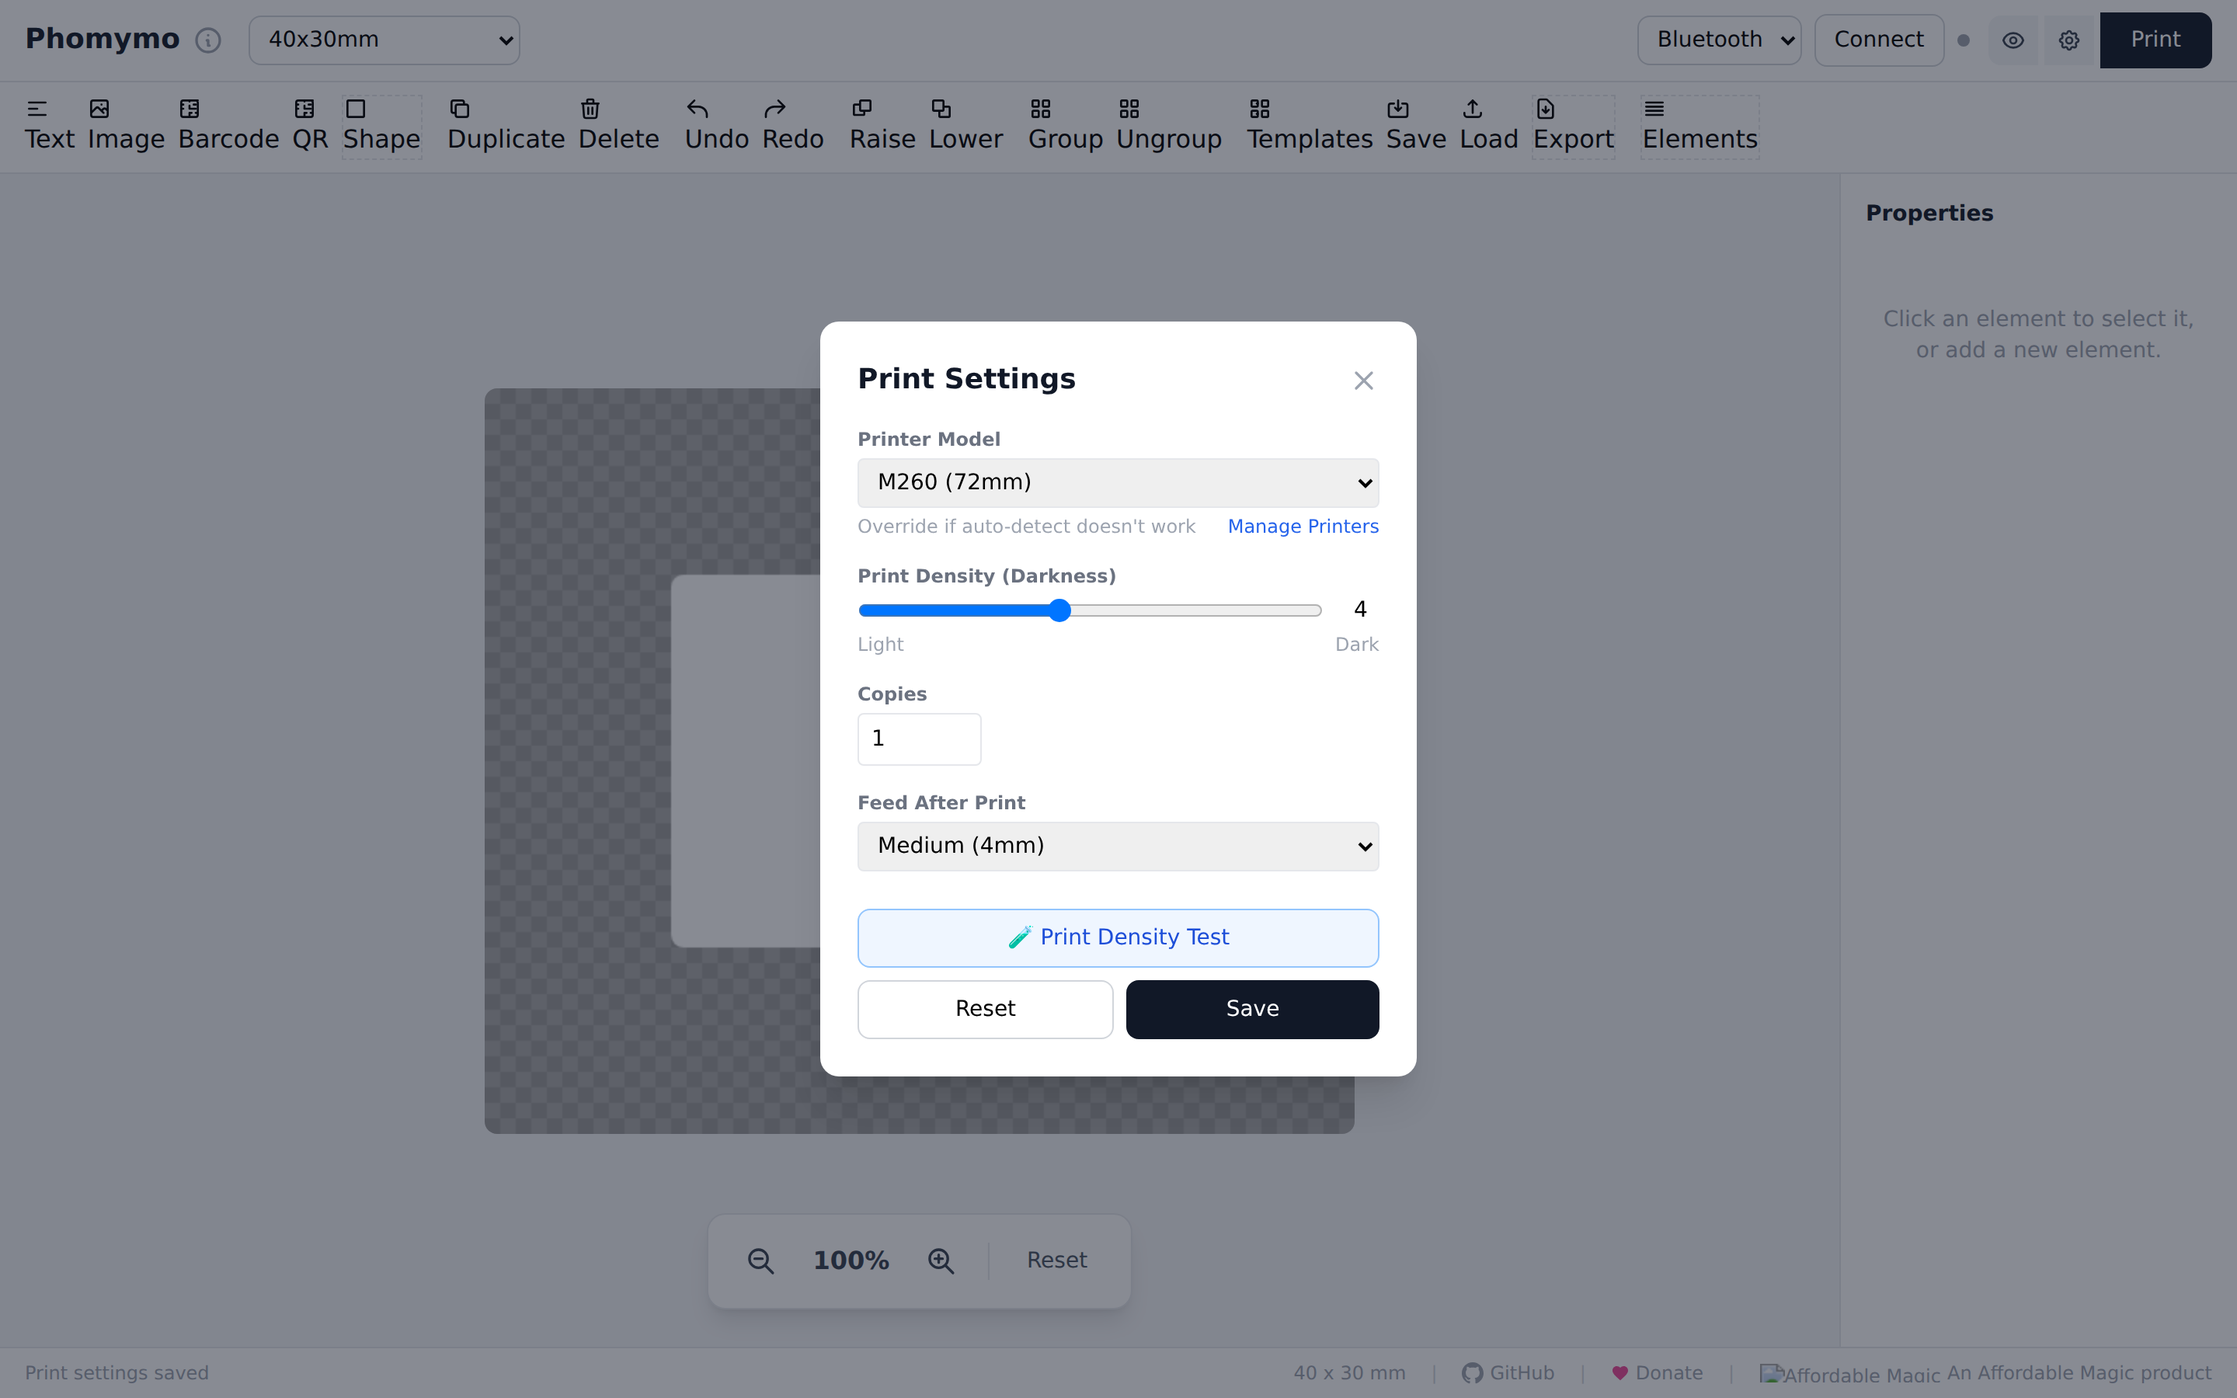
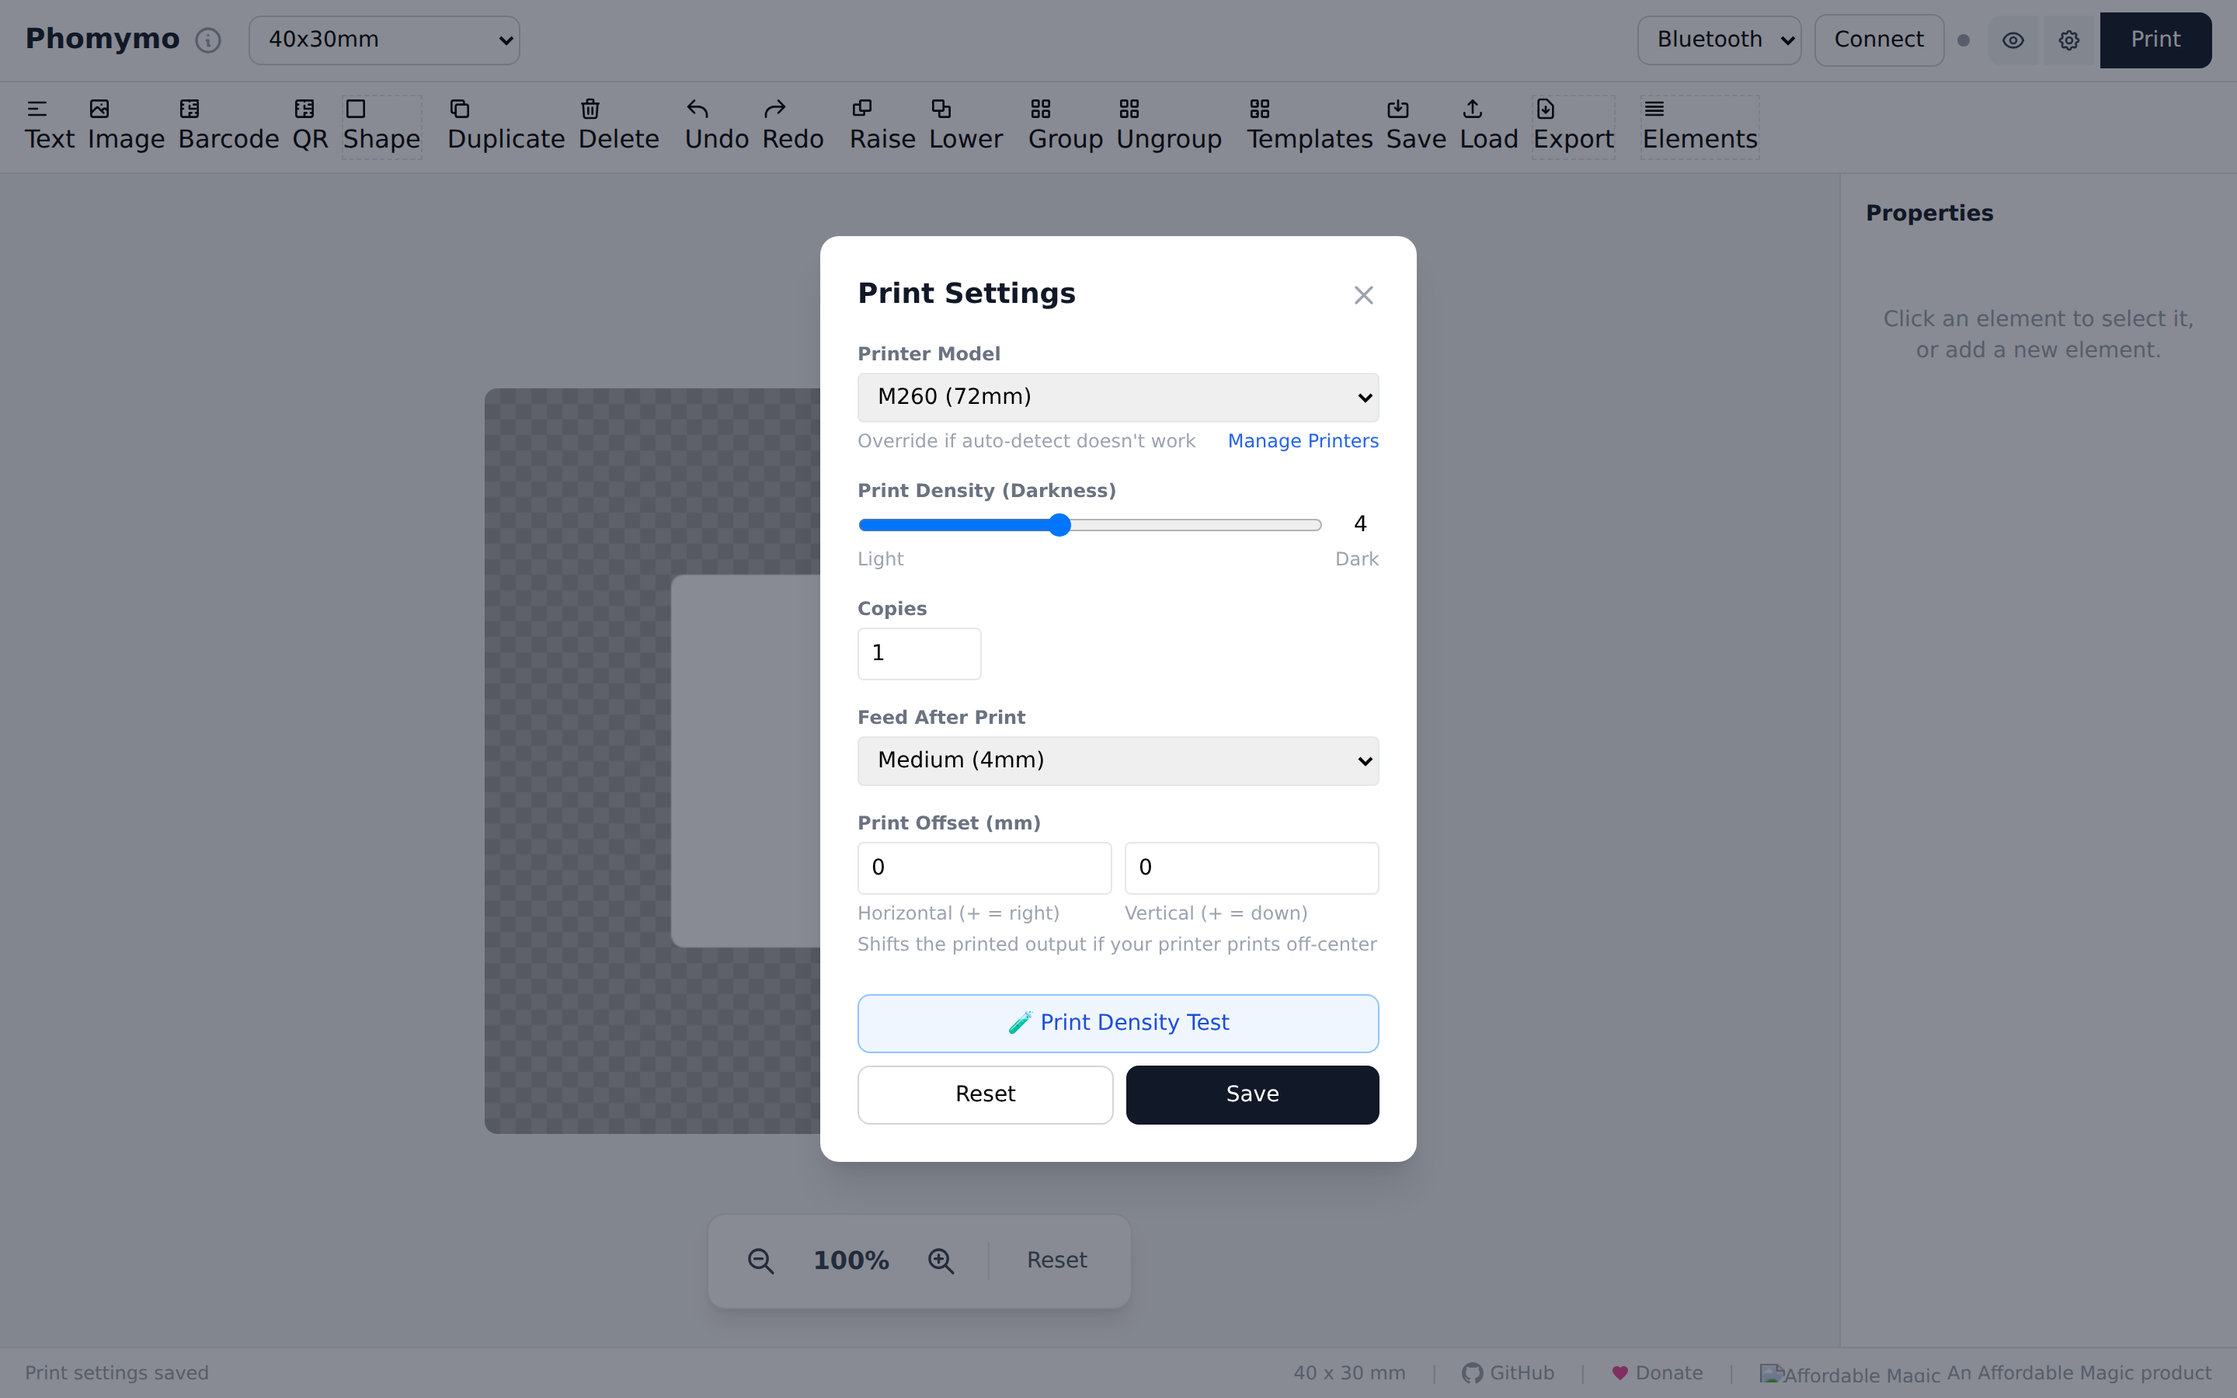
Add Print Offset calibration (horizontal/vertical, mm)
Adds the horizontal/vertical shift option the official Phomemo app has:
Print Settings gains a Print Offset (mm) pair (-10..+10, 0.5 steps,
+ = right / down). The offset is applied at print time only — content is
translated inside the label bitmap before rasterization in
getRasterData/getRasterDataRaw — so the canvas design is unchanged and
round-label clipping still applies. Stored in mm with the other print
settings and converted to 203-DPI pixels at print (scales correctly for
300-DPI printers, which upscale after the offset render).

This directly gives users a fix for per-unit alignment drift like the
reported M110 ~2-3mm left shift (README known-issue note updated with
the workaround; manual documents the new setting). Suite: 39/39.

Claude-Session: https://claude.ai/code/session_0156vw8917HrWjSWgj6FZdPK

Changed region(s): [[0.3438, 0.1556, 0.6562, 0.84], [0.5625, 0.3733, 0.625, 0.4044]]

diff --git a/src/web/app.js b/src/web/app.js
@@ -4,7 +4,7 @@
  * v116
  */
 
-import { CanvasRenderer } from './canvas.js?v=116';
+import { CanvasRenderer } from './canvas.js?v=117';
 import { BLETransport } from './ble.js?v=104';
 import { USBTransport } from './usb.js?v=101';
 import { print, printDensityTest, isDSeriesPrinter, isP12Printer, isA30Printer, isTapePrinter, isPM241Printer, isTSPLPrinter, isRotatedPrinter, getPrinterWidthBytes, getPrinterDpi, getPrinterAlignment, getPrinterDescription, isDeviceRecognized, getMatchedPattern, loadPrinterDefinitions, getAllPrinterDefinitions, getPrinterDefinition, getCustomPrinterDefinitions, saveCustomPrinterDefinition, deleteCustomPrinterDefinition, isBuiltinPrinter, resetBuiltinPrinter, getAvailableProtocols, getAvailableLabelPresets, getDetectedDefinition } from './printer.js?v=128';
@@ -179,6 +179,8 @@ const state = {
     copies: 1,        // Number of copies
     feed: 32,         // Feed after print in dots (8 dots = 1mm)
     printerModel: 'auto',  // 'auto', 'narrow-48', 'mini-54', 'wide-72', 'mid-76', 'wide-81', 'd-series'
+    offsetX: 0,       // Print offset calibration in mm (+ = right)
+    offsetY: 0,       // Print offset calibration in mm (+ = down)
   },
   // Template state
   templateFields: [],     // Detected field names from elements
@@ -1959,8 +1961,8 @@ async function handleBatchPrint() {
         ditherMode = 'threshold';
       }
       const rasterData = isRotatedPrinter(deviceName, printerModel)
-        ? state.renderer.getRasterDataRaw(mergedElements, ditherMode)
-        : state.renderer.getRasterData(mergedElements, printerWidth, 203, ditherMode, printerAlignment);
+        ? state.renderer.getRasterDataRaw(mergedElements, ditherMode, getPrintOffsetX(), getPrintOffsetY())
+        : state.renderer.getRasterData(mergedElements, printerWidth, 203, ditherMode, printerAlignment, getPrintOffsetX(), getPrintOffsetY());
 
       // Print
       await print(state.transport, rasterData, {
@@ -2046,8 +2048,8 @@ async function handlePrintSinglePreview() {
       ditherMode = 'threshold';
     }
     const rasterData = isRotatedPrinter(deviceName, printerModel)
-      ? state.renderer.getRasterDataRaw(mergedElements, ditherMode)
-      : state.renderer.getRasterData(mergedElements, printerWidth, 203, ditherMode, printerAlignment);
+      ? state.renderer.getRasterDataRaw(mergedElements, ditherMode, getPrintOffsetX(), getPrintOffsetY())
+      : state.renderer.getRasterData(mergedElements, printerWidth, 203, ditherMode, printerAlignment, getPrintOffsetX(), getPrintOffsetY());
 
     // Print
     await print(state.transport, rasterData, {
@@ -4747,6 +4749,17 @@ async function handleConnect(event) {
 /**
  * Handle print button click
  */
+/**
+ * Print offset calibration in pixels at 203 DPI (settings are stored in mm)
+ */
+function getPrintOffsetX() {
+  return (state.printSettings.offsetX || 0) * 8;
+}
+
+function getPrintOffsetY() {
+  return (state.printSettings.offsetY || 0) * 8;
+}
+
 async function handlePrint() {
   const btn = $('#print-btn');
   const originalText = btn.textContent;
@@ -4787,8 +4800,8 @@ async function handlePrint() {
       console.log('TSPL printer: forcing threshold mode for crisp barcodes');
     }
     const rasterData = isRotatedPrinter(deviceName, printerModel)
-      ? state.renderer.getRasterDataRaw(elementsToRender, ditherMode)
-      : state.renderer.getRasterData(elementsToRender, printerWidth, printerDpi, ditherMode, printerAlignment);
+      ? state.renderer.getRasterDataRaw(elementsToRender, ditherMode, getPrintOffsetX(), getPrintOffsetY())
+      : state.renderer.getRasterData(elementsToRender, printerWidth, printerDpi, ditherMode, printerAlignment, getPrintOffsetX(), getPrintOffsetY());
 
     // Print multiple copies if requested
     for (let copy = 1; copy <= copies; copy++) {
@@ -7504,6 +7517,8 @@ function init() {
   const densityValue = $('#print-density-value');
   const copiesInput = $('#print-copies');
   const feedSelect = $('#print-feed');
+  const offsetXInput = $('#print-offset-x');
+  const offsetYInput = $('#print-offset-y');
   const printerModelSelect = $('#printer-model');
 
   // Load saved print settings from localStorage
@@ -7522,6 +7537,8 @@ function init() {
       densityValue.textContent = state.printSettings.density;
       copiesInput.value = state.printSettings.copies;
       feedSelect.value = state.printSettings.feed;
+      offsetXInput.value = state.printSettings.offsetX || 0;
+      offsetYInput.value = state.printSettings.offsetY || 0;
       printerModelSelect.value = state.printSettings.printerModel || 'auto';
     }
   }
@@ -7557,6 +7574,8 @@ function init() {
     densityValue.textContent = state.printSettings.density;
     copiesInput.value = state.printSettings.copies;
     feedSelect.value = state.printSettings.feed;
+    offsetXInput.value = state.printSettings.offsetX || 0;
+    offsetYInput.value = state.printSettings.offsetY || 0;
     printerModelSelect.value = state.printSettings.printerModel || 'auto';
     printSettingsDialog.classList.remove('hidden');
   });
@@ -7570,11 +7589,13 @@ function init() {
   });
 
   $('#print-settings-reset').addEventListener('click', () => {
-    state.printSettings = { density: 6, copies: 1, feed: 32, printerModel: 'auto' };
+    state.printSettings = { density: 6, copies: 1, feed: 32, printerModel: 'auto', offsetX: 0, offsetY: 0 };
     densitySlider.value = 6;
     densityValue.textContent = '6';
     copiesInput.value = 1;
     feedSelect.value = 32;
+    offsetXInput.value = 0;
+    offsetYInput.value = 0;
     printerModelSelect.value = 'auto';
   });
 
@@ -7582,6 +7603,8 @@ function init() {
     state.printSettings.density = parseInt(densitySlider.value);
     state.printSettings.copies = Math.max(PRINT.MIN_COPIES, Math.min(PRINT.MAX_COPIES, parseInt(copiesInput.value) || PRINT.DEFAULT_COPIES));
     state.printSettings.feed = parseInt(feedSelect.value);
+    state.printSettings.offsetX = Math.max(-10, Math.min(10, parseFloat(offsetXInput.value) || 0));
+    state.printSettings.offsetY = Math.max(-10, Math.min(10, parseFloat(offsetYInput.value) || 0));
     state.printSettings.printerModel = printerModelSelect.value;
 
     // Save to localStorage

diff --git a/src/web/canvas.js b/src/web/canvas.js
@@ -1848,7 +1848,7 @@ export class CanvasRenderer {
    * Render elements to a temporary canvas and return pixel data
    * Shared helper for getRasterData and getRasterDataRaw
    */
-  _renderToPixels(elements) {
+  _renderToPixels(elements, offsetX = 0, offsetY = 0) {
     const width = this.labelWidth;
     const height = this.labelHeight;
     const tempCanvas = document.createElement('canvas');
@@ -1869,6 +1869,12 @@ export class CanvasRenderer {
       const radius = Math.min(width, height) / 2;
       tempCtx.arc(centerX, centerY, radius, 0, Math.PI * 2);
       tempCtx.clip();
+    }
+
+    // Print offset calibration: shift content within the label to compensate
+    // for printers that feed the media slightly off-center (px at 203 DPI)
+    if (offsetX || offsetY) {
+      tempCtx.translate(offsetX, offsetY);
     }
 
     // Render elements to temp canvas (with zone offsets if multi-label mode)
@@ -2277,8 +2283,8 @@ export class CanvasRenderer {
    * @param {string} ditherMode - Dither mode: 'auto', 'none', 'threshold', 'floyd-steinberg', 'atkinson', 'ordered'
    * @param {'left' | 'center' | 'right'} alignment - How to align label within printer width (default: 'center')
    */
-  getRasterData(elements, printerWidthBytes = DEFAULT_PRINTER_WIDTH_BYTES, printerDpi = 203, ditherMode = 'auto', alignment = 'center') {
-    let { pixels, width, height } = this._renderToPixels(elements);
+  getRasterData(elements, printerWidthBytes = DEFAULT_PRINTER_WIDTH_BYTES, printerDpi = 203, ditherMode = 'auto', alignment = 'center', offsetX = 0, offsetY = 0) {
+    let { pixels, width, height } = this._renderToPixels(elements, offsetX, offsetY);
 
     // Scale up for higher DPI printers (e.g., M02 Pro at 300 DPI)
     if (printerDpi > 203) {
@@ -2341,8 +2347,8 @@ export class CanvasRenderer {
    * @param {Array} elements - Elements to render
    * @param {string} ditherMode - Dither mode: 'auto', 'none', 'threshold', 'floyd-steinberg', 'atkinson', 'ordered'
    */
-  getRasterDataRaw(elements, ditherMode = 'auto') {
-    const { pixels, width, height } = this._renderToPixels(elements);
+  getRasterDataRaw(elements, ditherMode = 'auto', offsetX = 0, offsetY = 0) {
+    const { pixels, width, height } = this._renderToPixels(elements, offsetX, offsetY);
     const widthBytes = Math.ceil(width / 8);
     const data = this._pixelsToRaster(pixels, width, height, widthBytes, false, ditherMode);
 

diff --git a/src/web/index.html b/src/web/index.html
@@ -1538,6 +1538,22 @@
             <option value="80">Extra Large (10mm)</option>
           </select>
         </div>
+
+        <!-- Print Offset Calibration -->
+        <div>
+          <div class="prop-label">Print Offset (mm)</div>
+          <div class="flex gap-2">
+            <div class="flex-1">
+              <input type="number" id="print-offset-x" class="prop-input" step="0.5" min="-10" max="10" value="0">
+              <div class="text-xs text-gray-400 mt-1">Horizontal (+ = right)</div>
+            </div>
+            <div class="flex-1">
+              <input type="number" id="print-offset-y" class="prop-input" step="0.5" min="-10" max="10" value="0">
+              <div class="text-xs text-gray-400 mt-1">Vertical (+ = down)</div>
+            </div>
+          </div>
+          <div class="text-xs text-gray-400 mt-1">Shifts the printed output if your printer prints off-center</div>
+        </div>
       </div>
 
       <div class="mt-6 space-y-2">
@@ -2386,7 +2402,7 @@
     pdfjsModule.GlobalWorkerOptions.workerSrc = 'https://cdnjs.cloudflare.com/ajax/libs/pdf.js/4.0.379/pdf.worker.min.mjs';
     window.pdfjsLib = pdfjsModule;
   </script>
-  <script type="module" src="app.js?v=155"></script>
+  <script type="module" src="app.js?v=156"></script>
   <script>
     // Show body once styles are ready
     requestAnimationFrame(() => {

diff --git a/tests/05-print-settings.spec.ts b/tests/05-print-settings.spec.ts
@@ -79,4 +79,29 @@ test.describe.serial('Print Settings', () => {
 
     await screenshot(page, CH, 6, 'settings-persisted');
   });
+
+  test('print offset calibration persists', async ({ page }) => {
+    await page.click('#print-settings-btn');
+    await expect(page.locator('#print-settings-dialog')).toBeVisible();
+
+    // Offset inputs exist with defaults
+    await expect(page.locator('#print-offset-x')).toHaveValue('0');
+    await expect(page.locator('#print-offset-y')).toHaveValue('0');
+
+    // Set a calibration (e.g. compensate a leftward drift by shifting right)
+    await page.locator('#print-offset-x').fill('2.5');
+    await page.locator('#print-offset-y').fill('-1');
+    await page.click('#print-settings-save');
+    await expect(page.locator('#print-settings-dialog')).toBeHidden();
+
+    // Survives reload via localStorage
+    await page.reload({ waitUntil: 'networkidle' });
+    await waitForAppReady(page);
+    await dismissInfoDialog(page);
+    await page.click('#print-settings-btn');
+    await expect(page.locator('#print-offset-x')).toHaveValue('2.5');
+    await expect(page.locator('#print-offset-y')).toHaveValue('-1');
+
+    await screenshot(page, CH, 7, 'print-offset-persisted');
+  });
 });

diff --git a/docs/manual.html b/docs/manual.html
@@ -517,6 +517,13 @@ dark). Some printers may not respond to this setting.</p>
 alt="Density adjusted" />
 <figcaption aria-hidden="true">Density adjusted</figcaption>
 </figure>
+<h3 id="print-offset">Print Offset</h3>
+<p>If your printer consistently prints shifted from where the design
+sits on the label (for example a few millimeters to the left), use
+<strong>Print Offset (mm)</strong> to compensate: positive horizontal
+values shift the output right, positive vertical values shift it down.
+The offset applies only at print time - your design on the canvas is
+unchanged - and is saved with your other print settings.</p>
 <h3 id="other-settings">Other Settings</h3>
 <ul>
 <li><strong>Copies</strong> - Number of copies to print</li>

diff --git a/src/web/docs/manual.html b/src/web/docs/manual.html
@@ -517,6 +517,13 @@ dark). Some printers may not respond to this setting.</p>
 alt="Density adjusted" />
 <figcaption aria-hidden="true">Density adjusted</figcaption>
 </figure>
+<h3 id="print-offset">Print Offset</h3>
+<p>If your printer consistently prints shifted from where the design
+sits on the label (for example a few millimeters to the left), use
+<strong>Print Offset (mm)</strong> to compensate: positive horizontal
+values shift the output right, positive vertical values shift it down.
+The offset applies only at print time - your design on the canvas is
+unchanged - and is saved with your other print settings.</p>
 <h3 id="other-settings">Other Settings</h3>
 <ul>
 <li><strong>Copies</strong> - Number of copies to print</li>

diff --git a/src/web/gallery.js b/src/web/gallery.js
@@ -9,7 +9,7 @@
  * Template coordinates use the same base resolution as the editor: 8 px/mm.
  */
 
-import { CanvasRenderer } from './canvas.js?v=116';
+import { CanvasRenderer } from './canvas.js?v=117';
 import {
   generateId,
   createTextElement,

diff --git a/README.md b/README.md
@@ -130,7 +130,7 @@ phomymo/
 
 ## Known Issues
 
-- **M110: print output shifted ~2-3mm to the left** (observed printing from iPhone/Bluefy; not yet verified on desktop Chrome). Likely a per-printer alignment calibration rather than a rendering bug — the alignment can be overridden via Print Settings > Manage Printers as a workaround. Tracked, not fixed yet.
+- **M110: print output shifted ~2-3mm to the left** (observed printing from iPhone/Bluefy; not yet verified on desktop Chrome). Likely a per-printer alignment calibration rather than a rendering bug. **Workaround**: set a horizontal **Print Offset** in Print Settings (e.g. +2.5mm) to compensate.
 
 ## Acknowledgments
 

diff --git a/docs/manual.md b/docs/manual.md
@@ -234,6 +234,10 @@ The density slider controls how dark the print is (1 = light, 8 = dark). Some pr
 
 ![Density adjusted](screenshots/05-print-settings/04-density-adjusted.png)
 
+### Print Offset
+
+If your printer consistently prints shifted from where the design sits on the label (for example a few millimeters to the left), use **Print Offset (mm)** to compensate: positive horizontal values shift the output right, positive vertical values shift it down. The offset applies only at print time - your design on the canvas is unchanged - and is saved with your other print settings.
+
 ### Other Settings
 
 - **Copies** - Number of copies to print
